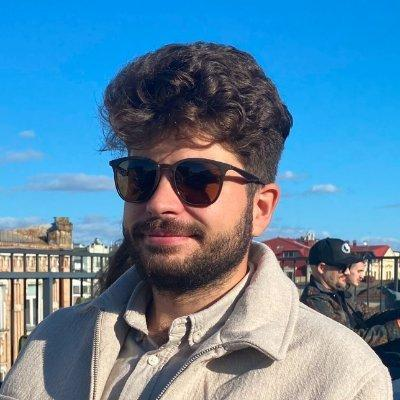
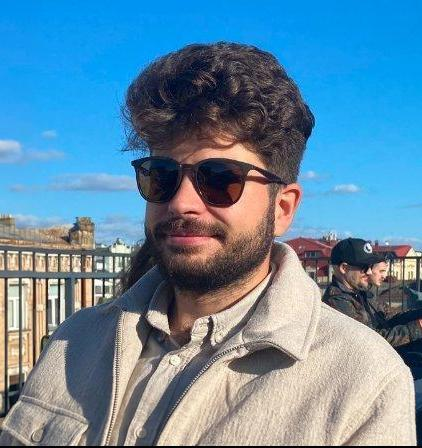
Speakers: square tiles, every face the same size, no floating heads
Tiles are square. Each headshot is placed by its detected face so every face
is the same size at the same point (apps/site/src/speaker-framing.json),
growing at most 5% to cover the tile; the edge fades are gone. 13 tight
headshots were extended by production's extend_headshots.py so they reach
the bottom; masks and faces remade. fitness fails a headshot that would
need more than 5% growth to fill its tile.

diff --git a/apps/site/src/styles/site.css b/apps/site/src/styles/site.css
@@ -23,15 +23,8 @@ html { -webkit-font-smoothing: antialiased; text-rendering: optimizeLegibility; 
 /* Search hits, highlighted by Pagefind. */
 .search-excerpt mark { background: rgb(181 166 255 / 0.45); color: inherit; border-radius: 2px; padding-inline: 1px; }
 
-/* A speaker's photo cut to the person by a greyscale mask (white = keep), sized like the
-   photo, its edges faded so a photo that ends inside the tile dissolves. */
-.speaker-mask {
-  mask:
-    var(--mask) center / var(--mask-size, 100% 100%) no-repeat luminance,
-    linear-gradient(to bottom, transparent, #000 6%, #000 84%, transparent) alpha,
-    linear-gradient(to right, transparent, #000 8%, #000 92%, transparent) alpha;
-  mask-composite: intersect;
-}
+/* A speaker's photo cut to the person by a greyscale mask (white = keep), sized like the photo. */
+.speaker-mask { mask: var(--mask) center / var(--mask-size, 100% 100%) no-repeat luminance; }
 /* Greyscale, then tinted by the wash. */
 .speaker-tint { filter: grayscale(1) contrast(1.1); }
 .speaker-tint-wash { background: var(--tint); mix-blend-mode: color; opacity: 0.75; }

diff --git a/scripts/fitness.py b/scripts/fitness.py
@@ -211,6 +211,17 @@ def png_chunks(data: bytes) -> dict[bytes, bytes]:
     return chunks
 
 
+FRAMING = json.loads((ROOT / "apps" / "site" / "src" / "speaker-framing.json").read_text())
+
+
+def covers(size: list[int], face: list[float]) -> bool:
+    """Does a headshot fill its tile with the face at most 5% over size, as the site frames it?"""
+    (w, h), (cx, cy, fh) = size, face
+    at, aspect = FRAMING["at"], w / h
+    need = max(at / cy, (1 - at) / (1 - cy), FRAMING["tile"] / (2 * aspect * min(cx, 1 - cx)))
+    return need <= 1.05 * FRAMING["face"] / fh
+
+
 def check_photos() -> None:
     listed = set()
     for listing in sorted((ROOT / "content").glob("*/photos.json")):
@@ -258,6 +269,8 @@ def check_photos() -> None:
             fail("photos", f"{photo.relative_to(ROOT)}: face in sources.json should be [x, y, height] fractions; re-run speaker_masks.py")
         elif entry.get("size") != list(jpeg_size(photo.read_bytes())):
             fail("photos", f"{photo.relative_to(ROOT)}: size in sources.json doesn't match; re-run speaker_masks.py")
+        elif face and not covers(entry["size"], face):
+            fail("photos", f"{photo.relative_to(ROOT)}: ends inside its tile; run extend_headshots.py, then speaker_masks.py")
     for f in sorted(masks.glob("*")):
         if not f.is_file() or f.name.startswith(".") or f.name == "sources.json":
             continue
